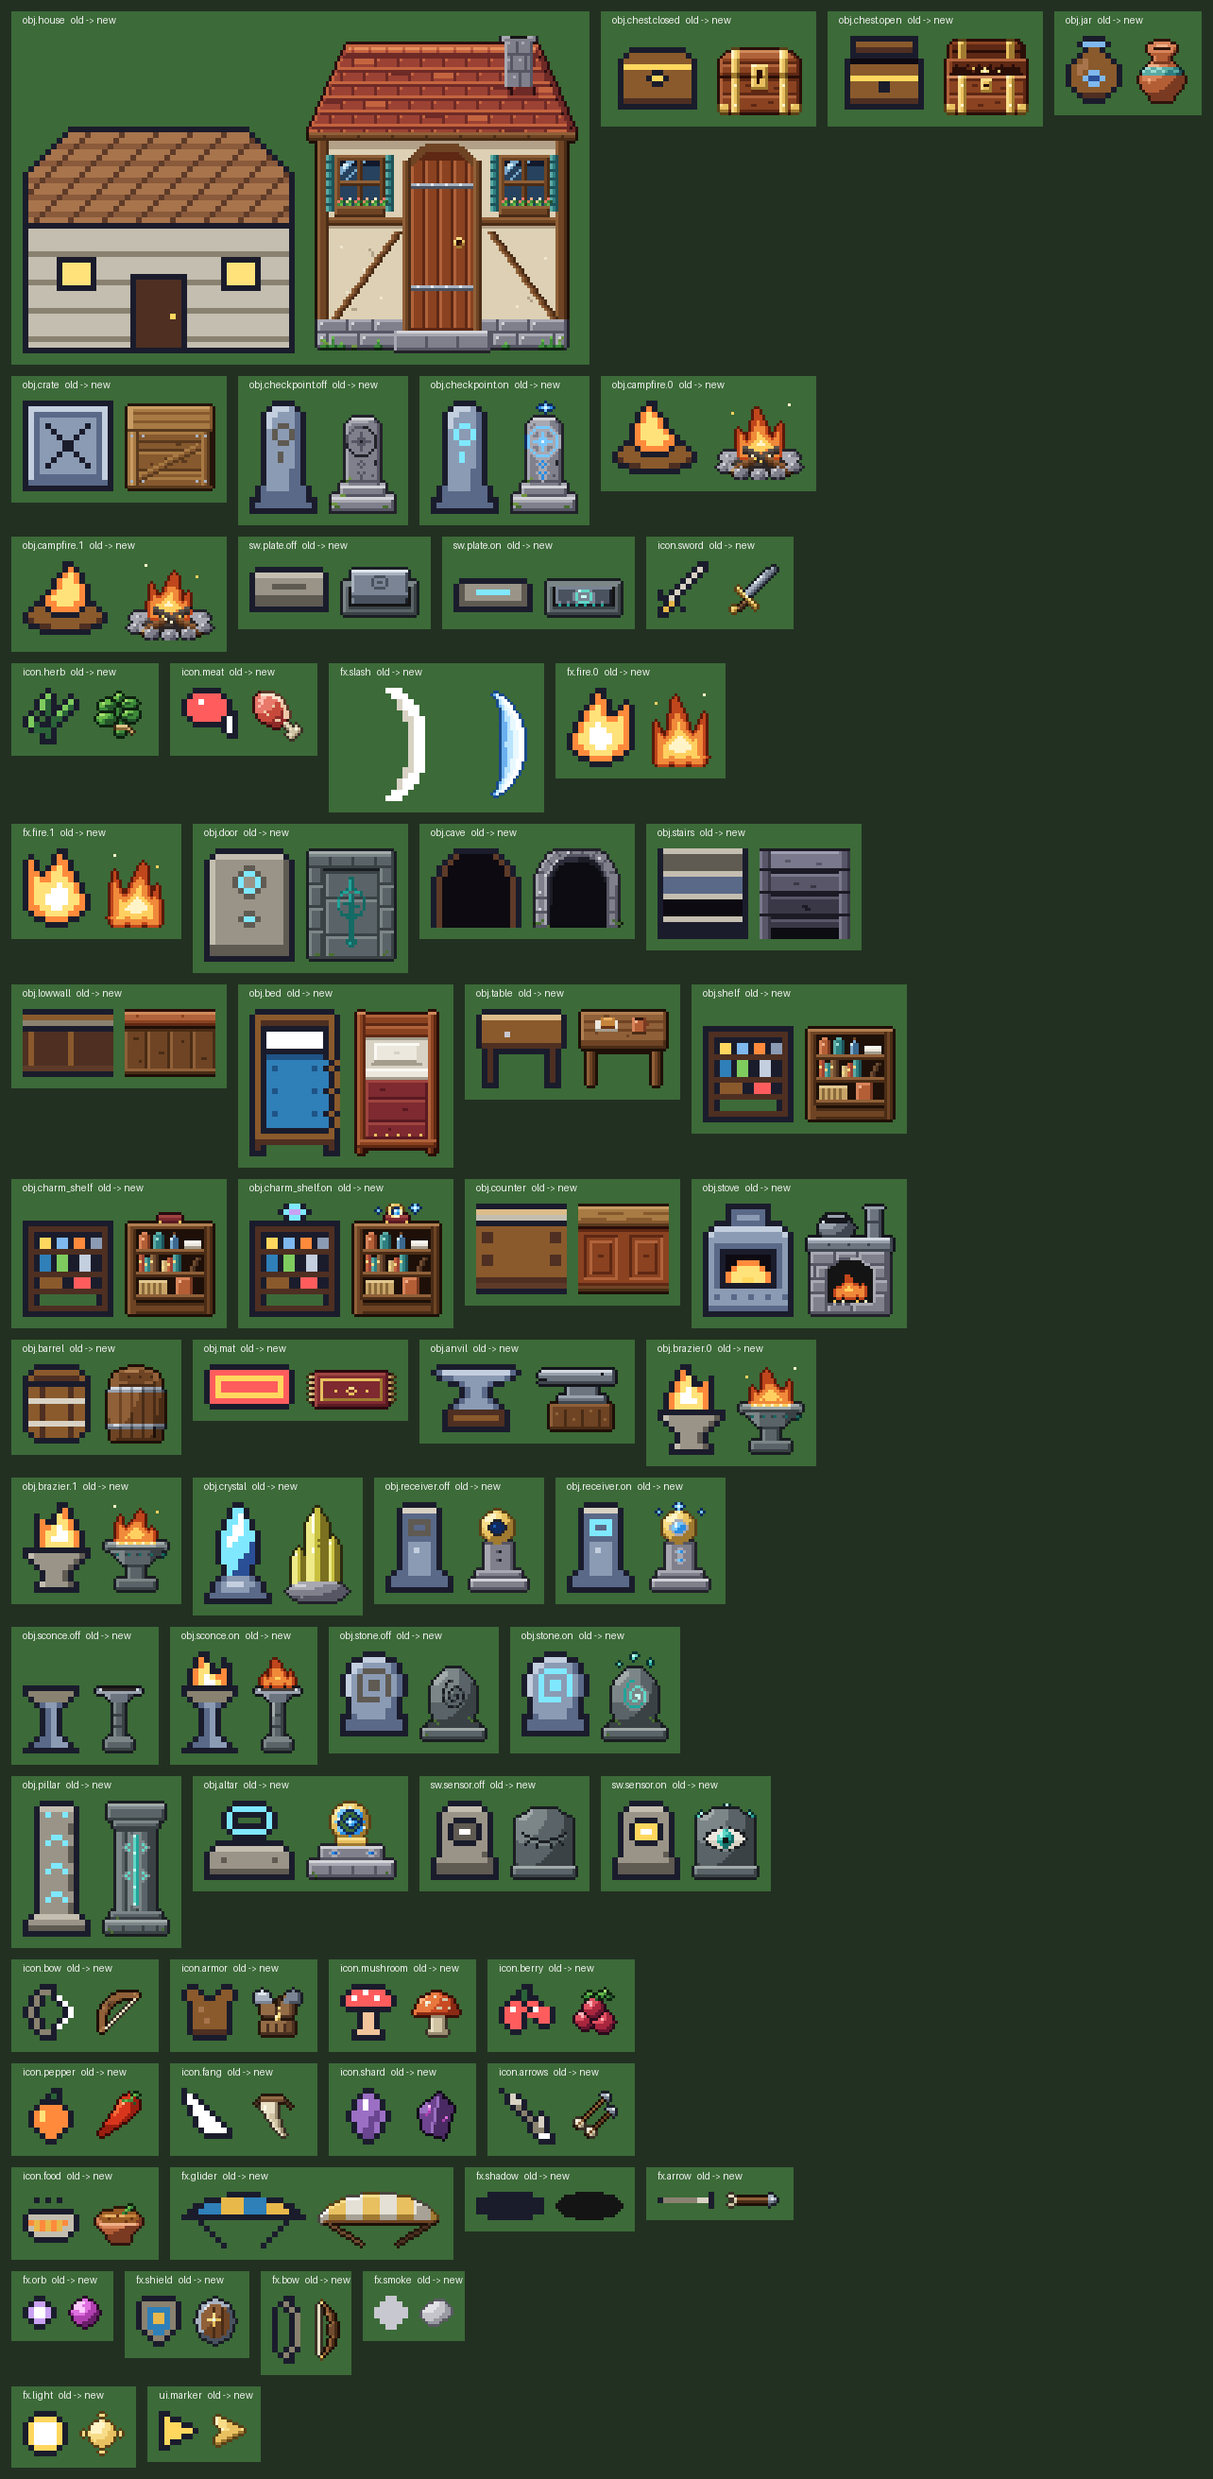
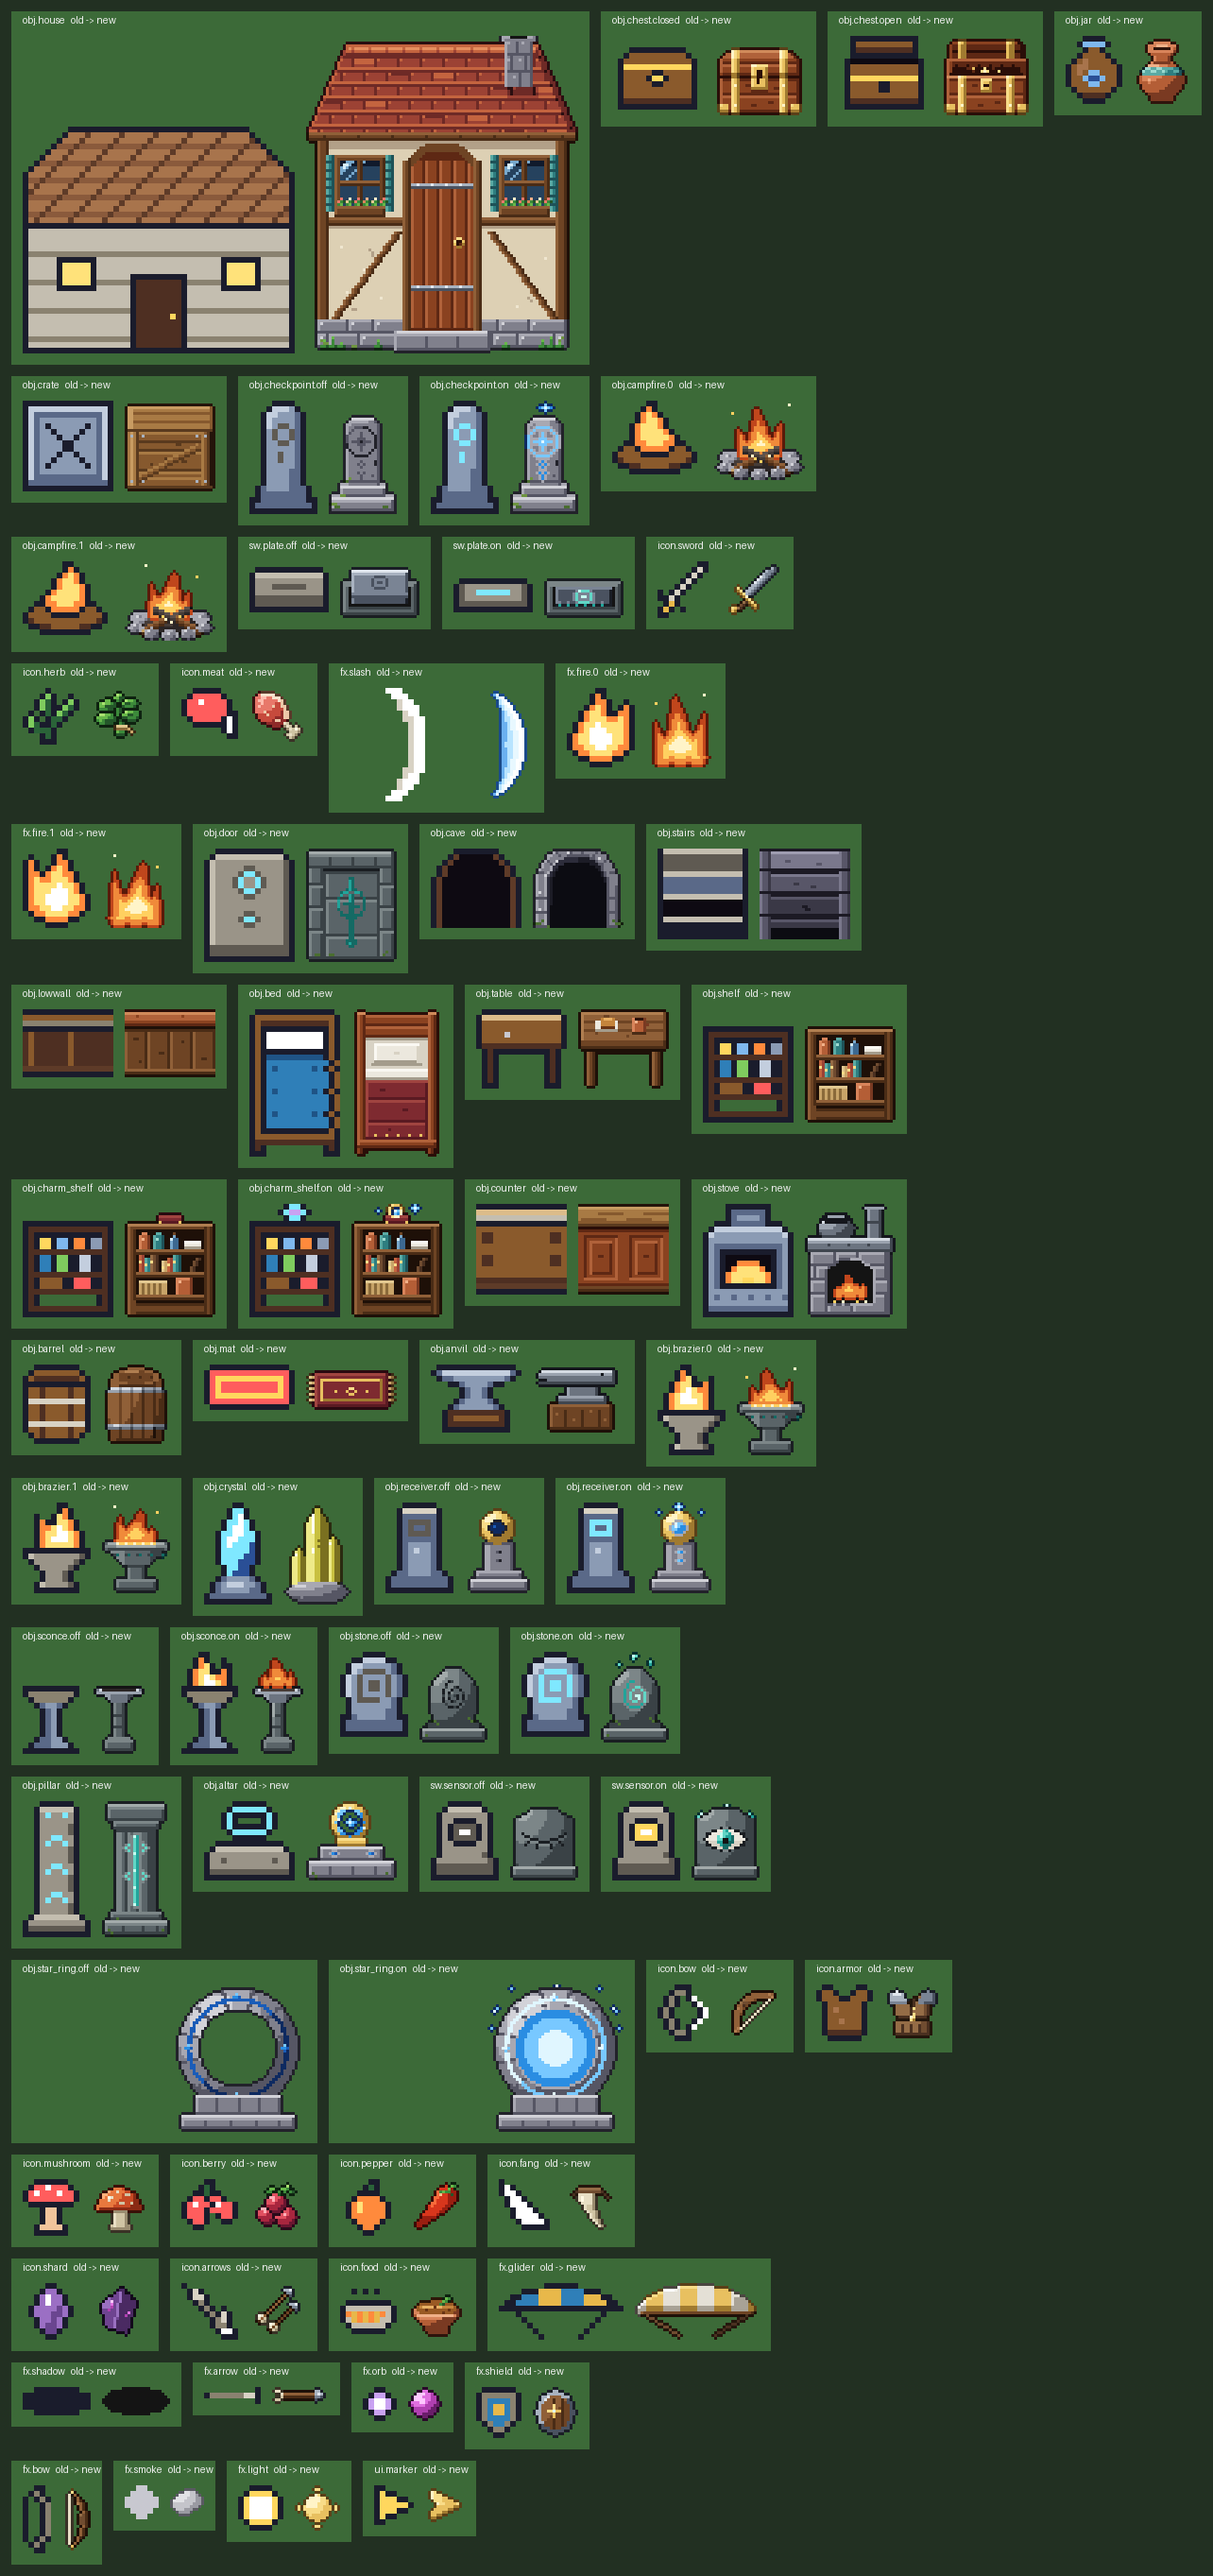
art(objects): release art for the beach star ring (obj.star_ring.off / .on)
48x52 (2x the 24x26 placeholder), feet anchor. A ring of cut field stone in a
two-step plinth with a gem-blue inlay and four seat stones (星環 = gem blue).
Off: dark inlay, open middle. On: the middle fills with light on the gem ramp
(opaque only), inlay and seats lit, sparks beside the ring (573 px shape change).
The existing 62 sprites are unchanged; the test now expects 64 and checks the
ring's size and anchor against the placeholder. PRODUCTION.md and review sheets
updated.

Claude-Session: https://claude.ai/code/session_01VbGyibjwGmxCJ2yW5ydLfW

diff --git a/tests/unit/objectsRelease.test.js b/tests/unit/objectsRelease.test.js
@@ -56,16 +56,18 @@ const SIZES = {
   'obj.stone.on': [24, 32], 'obj.pillar': [24, 48], 'obj.altar': [32, 28], 'sw.sensor.off': [24, 28],
   'sw.sensor.on': [24, 28], 'fx.glider': [44, 20], 'fx.shadow': [24, 10], 'fx.arrow': [20, 6], 'fx.orb': [12, 12],
   'fx.shield': [16, 18], 'fx.bow': [10, 24], 'fx.smoke': [12, 12], 'fx.light': [16, 16], 'ui.marker': [14, 14],
+  // v1.0: the beach star ring (2x the placeholder's 24x26)
+  'obj.star_ring.off': [48, 52], 'obj.star_ring.on': [48, 52],
   ...Object.fromEntries(['bow', 'armor', 'mushroom', 'berry', 'pepper', 'fang', 'shard', 'arrows', 'food'].map((n) => [`icon.${n}`, [20, 20]])),
 };
 const NAMES = Object.keys(SIZES).sort();
 const CENTRE = new Set(['fx.slash', 'fx.shadow', 'fx.arrow', 'fx.orb', 'fx.shield', 'fx.bow', 'fx.smoke', 'fx.light', 'ui.marker']);
 
 describe('release objects (src/art-release/objects)', () => {
-  it('holds exactly the expected 62 sprites (rock, bramble, stump, cactus belong to the terrain producer), every one a real sprite key of the game', () => {
+  it('holds exactly the expected 64 sprites (rock, bramble, stump, cactus belong to the terrain producer), every one a real sprite key of the game', () => {
     const files = readdirSync(DIR).sort();
     expect(files).toEqual(NAMES.map((n) => `${n}.png`).sort());
-    expect(NAMES).toHaveLength(62);
+    expect(NAMES).toHaveLength(64);
     const keys = new Set([...placeholderEntries(), ...Object.values(REGION_ENTRIES).flatMap((f) => f())].map((e) => e.key));
     for (const n of NAMES) expect(keys.has(n), n).toBe(true);
   });
@@ -114,7 +116,8 @@ describe('release objects (src/art-release/objects)', () => {
   it('changes state visibly: the two frames of every off/on, open/closed and animated pair differ', () => {
     const pairs = [['obj.chest.closed', 'obj.chest.open'], ['obj.checkpoint.off', 'obj.checkpoint.on'], ['obj.campfire.0', 'obj.campfire.1'],
       ['sw.plate.off', 'sw.plate.on'], ['fx.fire.0', 'fx.fire.1'], ['obj.brazier.0', 'obj.brazier.1'], ['obj.receiver.off', 'obj.receiver.on'],
-      ['obj.sconce.off', 'obj.sconce.on'], ['obj.stone.off', 'obj.stone.on'], ['sw.sensor.off', 'sw.sensor.on'], ['obj.charm_shelf', 'obj.charm_shelf.on']];
+      ['obj.sconce.off', 'obj.sconce.on'], ['obj.stone.off', 'obj.stone.on'], ['sw.sensor.off', 'sw.sensor.on'], ['obj.charm_shelf', 'obj.charm_shelf.on'],
+      ['obj.star_ring.off', 'obj.star_ring.on']];
     for (const [a, b] of pairs) {
       const A = read(a);
       const B = read(b);
@@ -122,6 +125,16 @@ describe('release objects (src/art-release/objects)', () => {
       for (let y = 0; y < A.h; y++) for (let x = 0; x < A.w; x++) if ((A.alpha(x, y) > 0) !== (B.alpha(x, y) > 0)) shape++;
       // guide 4.2: the shape changes by 6 px or more (a fire's frames: its flame tips move)
       expect(shape, `${a} -> ${b}`).toBeGreaterThanOrEqual(6);
+    }
+  });
+
+  it('draws the star ring at 2x its placeholder, feet-anchored like it', () => {
+    const entries = placeholderEntries();
+    for (const n of ['obj.star_ring.off', 'obj.star_ring.on']) {
+      const e = entries.find((k) => k.key === n);
+      expect(e, n).toBeTruthy();
+      expect(SIZES[n], n).toEqual([e.rows[0].length * 2, e.rows.length * 2]);
+      expect(e.anchor, n).toEqual([0.5, 1]);
     }
   });
 });

diff --git a/tools/object_release/objects2.py b/tools/object_release/objects2.py
@@ -722,7 +722,7 @@ def receiver():
             for x, y, t in ((11, 1, 4), (10, 1, 3), (12, 1, 3), (11, 0, 3), (11, 2, 3), (4, 3, 3), (19, 3, 3)):
                 c.put(x, y, "gem", t)
             lit_by(c, {"gem"}, "gold", 4)
-            lit_by(c, {"gem"}, S, 3)
+            lit_by(c, {"gem"}, S, 3)  # only the inner rim catches the light (before the inlay is set)
         else:
             c.put(10, 8, "gem", 1)
         out["obj.receiver." + ("on" if on else "off")] = to_rgba(c)
@@ -934,6 +934,75 @@ def sensor():
             for x, y in ((6, 13), (5, 14), (9, 14), (9, 15), (14, 14), (14, 15), (17, 13), (18, 14)):
                 c.put(x, y, S, 0)
         out["sw.sensor." + ("on" if on else "off")] = drop(to_rgba(c))
+    return out
+
+
+def star_ring():
+    """obj.star_ring.off / .on 48x52 (feet): the 星環 standing ring on the beach (the gate to the source).
+    A thick ring of field stone, built of blocks, stands in a two-step plinth; a gem-blue inlay runs round
+    its face with four set stones (the seats) at the top, the sides and the bottom. Gem blue = 星環 (guide).
+    Off: dormant: the inlay and the seats are dark blue, the middle is open (the sand shows through).
+    On: the middle fills with light on the same gem ramp (bright core, opaque pixels only), the inlay and the
+    seats light up, the stone beside them catches the light, and sparks rise beside the ring (shape + light)."""
+    out = {}
+    S = "stone"
+    cx, cy, ro, ri = 24.0, 22.5, 21.0, 14.0
+    for on in (False, True):
+        c = cv(48, 52)
+        # the ring: blocks of stone, lit from the top left
+        for x, y in ring_px(cx, cy, ri, ro):
+            c.put(x, y, S, 2)
+        round_shade(c, S, cx, cy, ro, ro, cuts=(0.9, 0.62, 0.15))
+        for k in range(12):  # the joints between the blocks (radial), not across the inlay
+            a = (k + 0.5) / 12 * 2 * math.pi
+            for r10 in range(int(ri * 10) + 5, int(ro * 10) - 4, 3):
+                r = r10 / 10
+                if 16.0 <= r <= 18.6:
+                    continue
+                x, y = int(cx + r * math.cos(a)), int(cy + r * math.sin(a))
+                if c.m(x, y) == S:
+                    c.tone[y][x] = 1
+        if on:
+            # the light in the middle: bright core, the same ramp to the edge
+            for y in range(52):
+                for x in range(48):
+                    d = math.hypot(x + 0.5 - cx, y + 0.5 - cy)
+                    if d < ri - 0.01 and c.m(x, y) is None:
+                        c.put(x, y, "gem", 4 if d < 6.5 else 3 if d < 11.0 else 2)
+            for x, y in ((23, 13), (23, 14), (23, 30), (23, 31), (14, 22), (15, 22), (32, 22), (33, 22),
+                         (17, 16), (30, 16), (17, 28), (30, 28)):  # a faint star of rays through the light
+                c.put(x, y, "gem", 3 if 12 <= x <= 35 and 11 <= y <= 33 and math.hypot(x + 0.5 - cx, y + 0.5 - cy) < 11 else 4)
+            lit_by(c, {"gem"}, S, 3)
+            for x, y, t in ((2, 9, 4), (3, 8, 3), (1, 15, 3), (45, 9, 3), (44, 8, 4), (46, 15, 3),
+                            (24, 0, 4), (8, 1, 3), (39, 1, 3)):  # sparks rising beside the ring
+                c.put(x, y, "gem", t)
+        # the inlay (a groove of gem blue round the face)
+        for x, y in ring_px(cx, cy, 16.6, 18.0):
+            up_left = (x + 0.5 - cx) + (y + 0.5 - cy) < 0
+            c.put(x, y, "gem", (4 if up_left else 3) if on else (1 if up_left else 0))
+        # the four seats: gem stones set in the inlay (N, E, S, W)
+        for sx, sy in ((cx, cy - 17.3), (cx + 17.3, cy), (cx, cy + 17.3), (cx - 17.3, cy)):
+            x0, y0 = int(sx - 1.5), int(sy - 1.5)
+            for dy in range(3):
+                for dx in range(3):
+                    if (dx, dy) in ((0, 0), (2, 0), (0, 2), (2, 2)):
+                        continue
+                    if on:
+                        t = 4 if dx + dy <= 2 else 3
+                    else:
+                        t = 3 if (dx, dy) == (1, 0) else 2 if dx + dy <= 2 else 1
+                    c.put(x0 + dx, y0 + dy, "gem", t)
+        # the plinth the ring stands in: two steps of the same stone
+        box(c, 9, 39, 38, 45, S, top=3, bottom=1)
+        hline(c, 9, 38, 39, S, 4)
+        for x in (16, 24, 31):
+            vline(c, x, 40, 45, S, 1)
+        box(c, 4, 46, 43, 50, S, top=3, bottom=1)
+        hline(c, 4, 43, 46, S, 4)
+        hline(c, 5, 42, 47, S, 3)
+        for x in (12, 21, 30, 38):
+            vline(c, x, 48, 50, S, 1)
+        out["obj.star_ring." + ("on" if on else "off")] = drop(to_rgba(c))
     return out
 
 
@@ -1354,7 +1423,7 @@ def marker():
 def all_wave2():
     out = {}
     for f in (door, cave, stairs, lowwall, bed, table, shelves, counter, stove, barrel, mat, anvil,
-              brazier, crystal, receiver, sconce, resonance_stone, pillar, altar, sensor,
+              brazier, crystal, receiver, sconce, resonance_stone, pillar, altar, sensor, star_ring,
               icons2, glider, shadow, arrow, orb, shield_fx, bow_fx, smoke,
               light_orb, marker):
         out.update(f())
@@ -1370,6 +1439,7 @@ SIZES2 = {
     "obj.receiver.off": (24, 32), "obj.receiver.on": (24, 32), "obj.sconce.off": (20, 36),
     "obj.sconce.on": (20, 36), "obj.stone.off": (24, 32), "obj.stone.on": (24, 32),
     "obj.pillar": (24, 48), "obj.altar": (32, 28), "sw.sensor.off": (24, 28), "sw.sensor.on": (24, 28),
+    "obj.star_ring.off": (48, 52), "obj.star_ring.on": (48, 52),
     **{f"icon.{n}": (20, 20) for n in ("bow", "armor", "mushroom", "berry", "pepper", "fang", "shard", "arrows", "food")},
     "fx.glider": (44, 20), "fx.shadow": (24, 10), "fx.arrow": (20, 6), "fx.orb": (12, 12),
     "fx.shield": (16, 18), "fx.bow": (10, 24), "fx.smoke": (12, 12), "fx.light": (16, 16),

diff --git a/tools/object_release/review.py b/tools/object_release/review.py
@@ -29,6 +29,7 @@ GROUPS = [
     ("furniture", ["obj.lowwall", "obj.bed", "obj.table", "obj.shelf", "obj.charm_shelf", "obj.charm_shelf.on",
                    "obj.counter", "obj.stove", "obj.barrel", "obj.mat", "obj.anvil"]),
     ("props", ["obj.chest.closed", "obj.chest.open", "obj.jar", "obj.crate", "obj.campfire.0", "obj.campfire.1",
+               "obj.star_ring.off", "obj.star_ring.on",
                ]),
     ("puzzle / ruin", ["obj.checkpoint.off", "obj.checkpoint.on", "obj.brazier.0", "obj.brazier.1", "obj.crystal",
                        "obj.receiver.off", "obj.receiver.on", "obj.sconce.off", "obj.sconce.on", "obj.stone.off",

diff --git a/docs/art-release/objects/PRODUCTION.md b/docs/art-release/objects/PRODUCTION.md
@@ -1,4 +1,4 @@
-# 建物・物・アイコン・効果・UI の絵 製品版（62 枚）
+# 建物・物・アイコン・効果・UI の絵 製品版（64 枚）
 
 承認された見本（PR #54 `design/object-samples`）と絵柄のガイド（PR #51 `docs/art-style-guide` 7e0f6bc）の決まりで、**残りの物の絵 45 枚を作り、見本 17 枚を仕上げて**、製品版の大きさで書き出しました。
 
@@ -22,7 +22,7 @@
 - 光の色：**星環の物＝主人公の宝石の青**（記録の石・受信機・祭壇・長老のお守り）、**遺跡の仕掛け＝遺跡の青緑**（踏むスイッチ・光センサー・共鳴石・柱・扉の紋）、火＝ガイドの炎の色
 - 効果も半透明の点なし（薄くするのはプログラム）
 
-## 一覧（62 枚）
+## 一覧（64 枚）
 
 基準点：足＝足元（下の真ん中）、中＝中心。「主な色」は使ったランプ（**新**＝今回新しく作ったランプ、**ガ**＝ガイドのランプを今回この道具に足したもの）。
 
@@ -59,6 +59,7 @@
 | `obj.jar` | 20×24 | 足 | 見本のまま | clay glaze |
 | `obj.crate` | 32×32 | 足 | 見本のまま | crate steel |
 | `obj.campfire.0` / `.1` | 32×28 | 足 | 見本のまま（2 コマ） | stone ash wood string fire |
+| `obj.star_ring.off` / `.on` | 48×52 | 足 | v1.0 で追加。浜辺の星環の輪（源へ行く門）。石の段の台に立つ、切り石を組んだ太い輪。輪の面に宝石の青の溝と、上・左右・下に 4 つの座の石。消＝溝と座は暗い紺、輪の中は空いて砂が見える／点＝輪の中が同じ青のランプで光で満ち（真ん中がいちばん明るい、全部不透明）、溝と座が光り、光のそばの石が明るくなり、輪の横と上に光の粒（形の違い 573 点） | stone gem |
 
 ### 仕掛け・遺跡
 
@@ -143,7 +144,7 @@
 
 | 確認 | 結果 |
 |---|---|
-| 名前・大きさ・基準点が仮の絵と同じ（2 倍） | 62 枚とも合う（`placeholderPack.js` の名前に全部ある。テストで確認） |
+| 名前・大きさ・基準点が仮の絵と同じ（2 倍） | 64 枚とも合う（`placeholderPack.js` の名前に全部ある。テストで確認） |
 | 半透明の点が無い | 全部 0 か 255（作るときとテストの 2 回） |
 | 全部の色がランプの中 | 作るときに自動で確認（ガイドのランプ＋見本と今回の新しいランプ） |
 | 足元の物が最後の行に立つ | 全部（作るときとテスト） |
@@ -195,3 +196,13 @@
 決まりはそのまま守れている（作るときの確認とテスト）：アルファ 0/255、色は全部ランプの中、アイコンの 1 ドットの余白、素材 3 つまで（鎧＝leather steel gold、弓＝wood bone leather、料理＝clay stew leaf）。確認画像 5 枚も作り直した。`npx vitest run` 38 ファイル・482 件合格、`npm run lint` 合格。
 
 人が決めること（確認の 2・4 と「決めてほしいこと」1〜5）はそのまま残っています。
+
+## v1.0 の追加：星環の輪（`obj.star_ring.off` / `.on`）
+
+- 仮の絵（`sourceArt.js` の `starRingSprite`、`placeholderPack.js` で `obj.star_ring.off/.on`、24×26、基準点は足）の 2 倍の **48×52**、基準点は足。テストで仮の絵の大きさの 2 倍・基準点が同じことを確かめる
+- 作り方：`objects2.py` の `star_ring()`。これまでの 62 枚は 1 ドットも変えていません（作り直してもバイト単位で同じ）
+- 色：星環の物なので**宝石の青**（`gem`）、石は村・野原の `stone`。点けた時の光も同じ `gem` のランプの 2〜4 番で、半透明は使わない（アルファ 0/255）
+- 消→点：形の違い 573 点（輪の中が埋まる＋光の粒）、色の違い 856 点
+- 確かめた絵：`/tmp/claude-0/-home-user-my-jrpg-game/b046b55c-c649-5668-ab0a-0dc53b730c1c/scratchpad/team/v1objects/star_ring.png`（製品版の砂のタイルの上に、消・主人公・点を等倍と 3 倍で。左＝昼、右＝夜。夜は地面と消えた輪を暗く青くし、点いた輪はそのまま＝光る物として）。主人公（32×56）とほぼ同じ高さで、昼の砂の上では灰色の石と暗い紺の溝で見え、夜は点いた輪がいちばん目立つ
+- 確認画像：`review_sheet.png` の props の行と `review_compare.png`（仮の絵の絵は docs/art-kit に無いので新しい方だけ）
+- 残り：ゲームにつなぐのは別の作業（ほかの製品版の絵と同じ）。夜の見え方はゲームの夜の重ね方で実機確認したい
